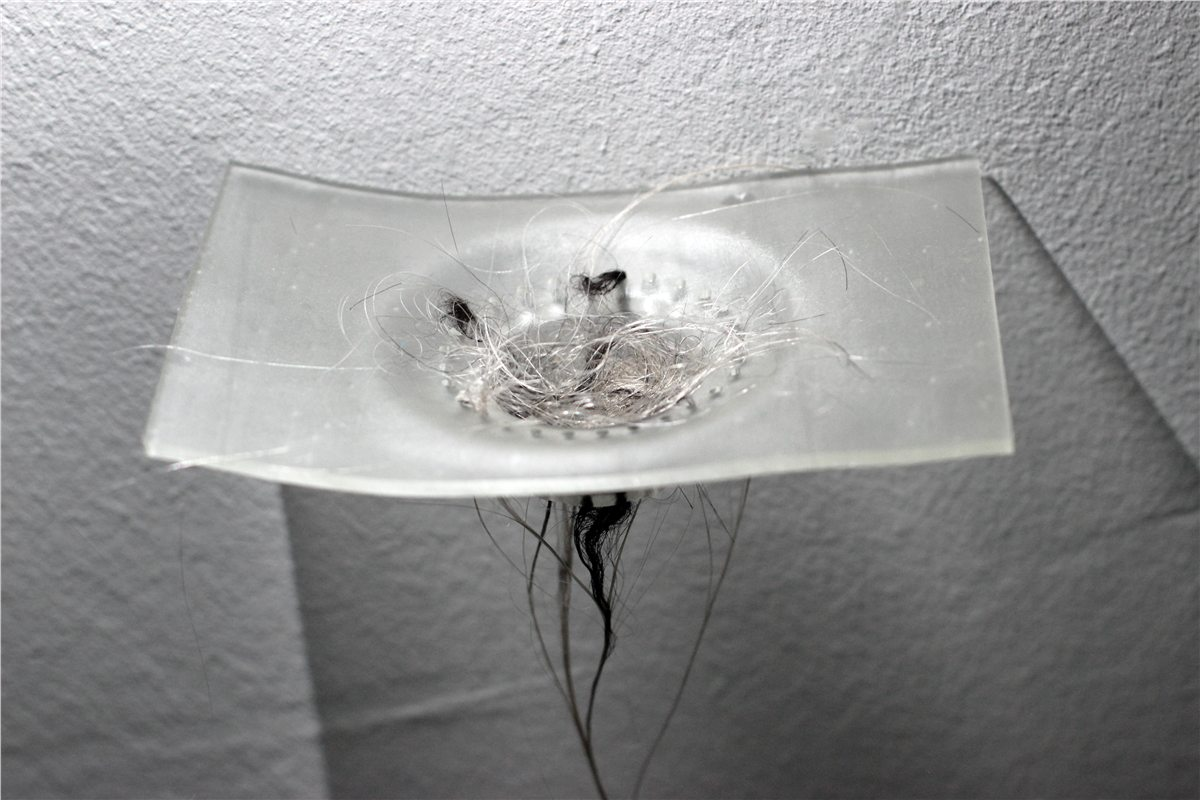
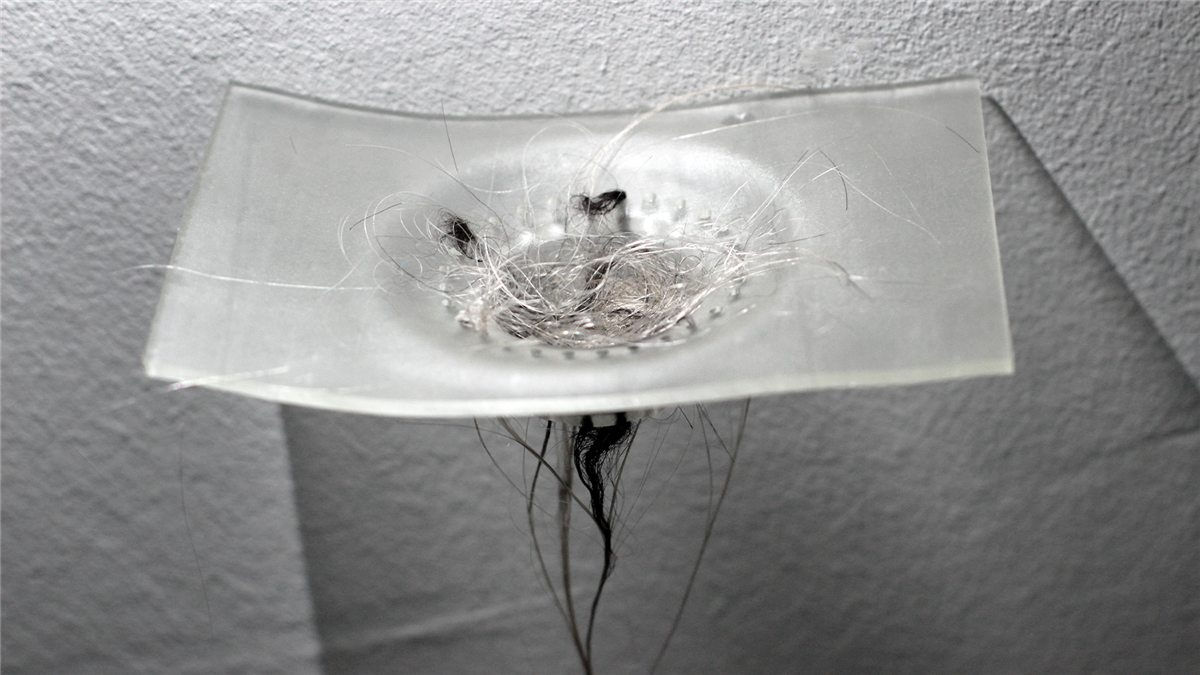
Replace HT_02 image with HT_02_b

diff --git a/elso-oldal.html b/elso-oldal.html
@@ -1099,13 +1099,13 @@
               </div>
               <img
                 class="lightbox-media protected-media"
-                src="assets/haztartasi-transzcendencia/display/ht-02.jpg"
+                src="assets/haztartasi-transzcendencia/display/ht-02.jpg?v=ht02b"
                 alt="Háztartási transzcendencia HT 02"
                 loading="lazy"
                 data-lightbox-index="4"
                 data-lightbox-group="hair-fur-project"
                 data-media-type="image"
-                data-media-src="assets/haztartasi-transzcendencia/full/ht-02.jpg"
+                data-media-src="assets/haztartasi-transzcendencia/full/ht-02.jpg?v=ht02b"
                 data-media-alt="Háztartási transzcendencia HT 02"
                 role="button"
                 tabindex="0"
